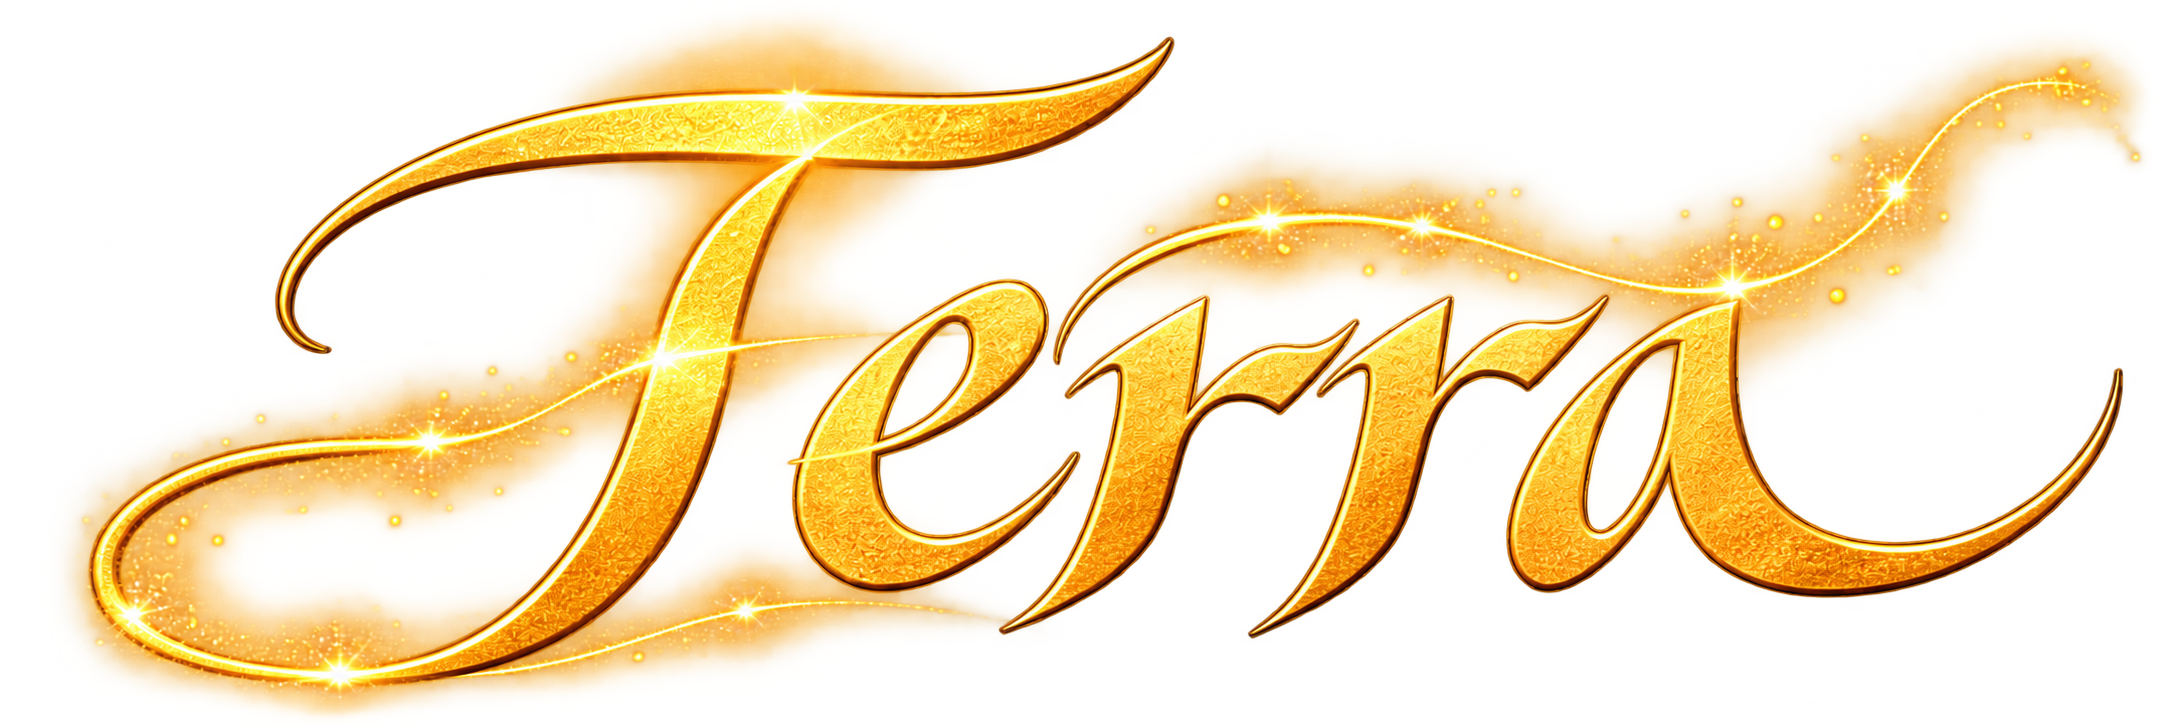
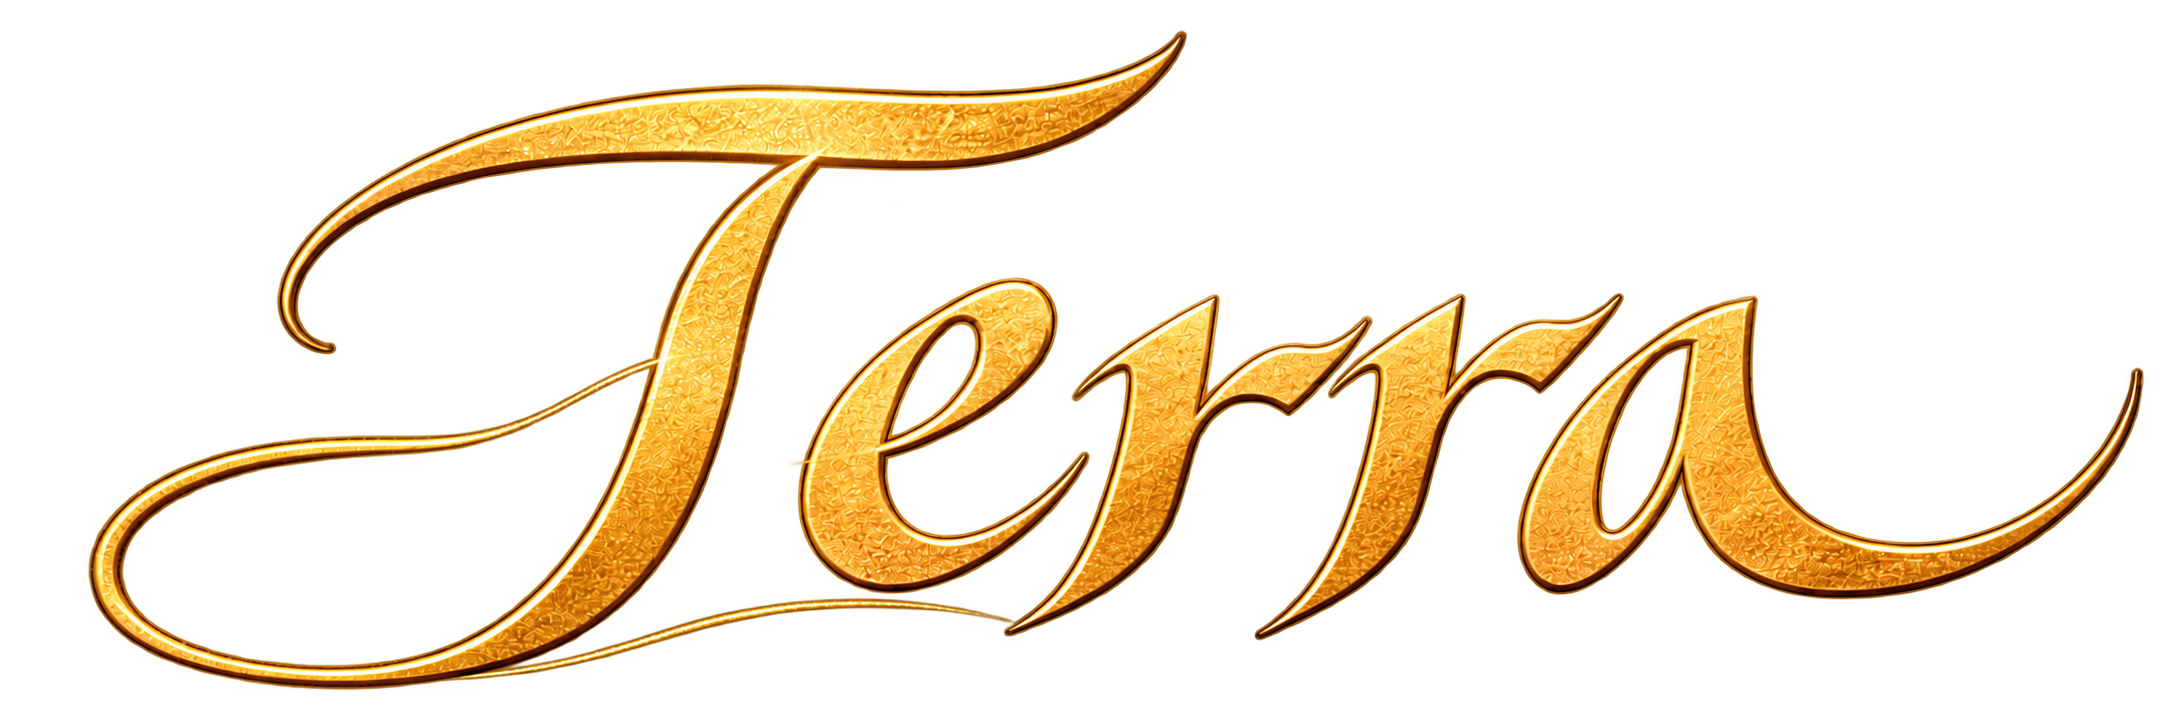
Soften mobile hero lettering and event details

diff --git a/index.html b/index.html
@@ -8,7 +8,7 @@
   <title>Quando o Céu Tocou a Terra | Cantata de Natal 2026</title>
   <link rel="preconnect" href="https://fonts.googleapis.com">
   <link rel="preconnect" href="https://fonts.gstatic.com" crossorigin>
-  <link href="https://fonts.googleapis.com/css2?family=Cinzel:wght@400;500;600&family=DM+Sans:wght@400;500;600;700&family=DM+Serif+Display&family=Tangerine:wght@700&display=swap" rel="stylesheet">
+  <link href="https://fonts.googleapis.com/css2?family=Cinzel:wght@400;500;600&family=Cormorant+Garamond:wght@500;600&family=DM+Sans:wght@400;500;600;700&family=DM+Serif+Display&family=Tangerine:wght@700&display=swap" rel="stylesheet">
   <script>document.documentElement.classList.add('js')</script>
   <style>
     :root { color-scheme: dark; --night: #100d0a; --panel: #19130e; --gold: #dfbb77; --ivory: #f4ead5; --muted: #c3b9a8; --line: rgba(223,187,119,.24); --serif: "Cinzel", Georgia, serif; --sans: "DM Sans", Arial, sans-serif; }
@@ -344,11 +344,13 @@
       .hero-art::before { content:""; position:absolute; z-index:-1; inset:-18px; background:url("images/cantata-mobile-hero.png") center 56% / cover no-repeat; filter:blur(16px) brightness(.48); transform:scale(1.05); opacity:.82; }
       .hero-art > .eyebrow { display:none; }
       .hero-mobile-kicker { display:block; position:absolute; z-index:2; top:26%; left:10px; right:10px; color:#f4cf7e; text-align:center; font-size:clamp(.58rem,2.8vw,.72rem); font-weight:700; letter-spacing:.17em; line-height:1.4; text-shadow:0 2px 14px #100900; text-transform:uppercase; }
-      .hero-art > h1 { position:absolute; top:32%; left:0; width:100%; margin:0; padding:0 10px; color:var(--ivory); font-size:clamp(1.58rem,7.3vw,2.65rem); line-height:1.02; letter-spacing:.035em; text-shadow:0 3px 22px #100900,0 0 24px rgba(0,0,0,.7); }
+      .hero-art > h1 { position:absolute; top:32%; left:0; width:100%; margin:0; padding:0 10px; color:var(--ivory); font-family:"Cormorant Garamond",var(--serif); font-size:clamp(1.8rem,8.1vw,2.75rem); font-weight:500; line-height:.98; letter-spacing:.045em; text-shadow:0 3px 22px #100900,0 0 24px rgba(0,0,0,.7); }
       .hero-art > h1 .terra { margin-top:1px; font-size:clamp(4.4rem,15.5vw,6.5rem); }
-      .hero-promise-below { order:2; display:block; width:100%; padding:24px 24px 8px; color:#f0d493; background:#100d0a; text-align:center; font-size:.76rem; font-weight:700; letter-spacing:.14em; line-height:1.65; text-shadow:0 2px 16px #000; text-transform:uppercase; }
-      .hero-promise-below::after { content:"✦"; display:block; width:136px; margin:13px auto 0; border-bottom:1px solid rgba(223,187,119,.58); color:#e8c476; font-size:.85rem; line-height:1.4; }
-      .hero-meta { order:3; width:100%; margin:0; padding:14px 22px 30px; background:#100d0a; gap:10px 18px; justify-content:center; }
+      .hero-promise-below { order:2; display:block; width:100%; padding:26px 22px 6px; color:#e7c577; background:#100d0a; text-align:center; font-family:"Cormorant Garamond",var(--serif); font-size:clamp(1rem,4.3vw,1.15rem); font-weight:500; letter-spacing:.12em; line-height:1.45; text-shadow:0 2px 16px #000; text-transform:uppercase; }
+      .hero-promise-below::after { content:"✦"; display:block; width:min(80%,310px); height:17px; margin:15px auto 0; color:#e8c476; font-size:.9rem; line-height:17px; background:linear-gradient(180deg,transparent 47%,rgba(223,187,119,.52) 47%,rgba(223,187,119,.52) 53%,transparent 53%); text-shadow:0 0 5px #100d0a,0 0 3px #100d0a; }
+      .hero-meta { order:3; width:100%; margin:0; padding:11px 22px 28px; background:#100d0a; gap:4px; justify-content:center; flex-direction:column; align-items:center; color:#d9b66d; font-family:"Cormorant Garamond",var(--serif); font-size:clamp(.88rem,3.8vw,1rem); line-height:1.42; letter-spacing:.15em; }
+      .hero-meta span { display:block; }
+      .hero-meta svg { display:none; }
     }
   
     .hero-renascer-logo {display:flex;flex-direction:column;align-items:center;gap:2px;margin:0 auto 23px;}
@@ -479,8 +481,8 @@
     .terra-title text { text-transform:none; }
     .terra-writing { fill-opacity:1; clip-path:none; stroke:rgba(243,213,142,.2); stroke-width:.45; }
     .terra-title-mobile { display:none; position:relative; isolation:isolate; }
-    .terra-title-mobile .terra-writing { display:block; width:100%; height:auto; filter:sepia(.72) saturate(1.2) hue-rotate(-8deg); }
-    .terra-sweep-mobile { position:absolute; inset:0; z-index:1; background:linear-gradient(105deg,transparent 35%,rgba(255,255,225,.12) 43%,rgba(255,255,231,.94) 50%,rgba(255,224,153,.2) 57%,transparent 65%); opacity:0; transform:translateX(-110%); pointer-events:none; -webkit-mask:url("images/terra-lettering.png") center / 100% 100% no-repeat; mask:url("images/terra-lettering.png") center / 100% 100% no-repeat; }
+    .terra-title-mobile .terra-writing { display:block; width:100%; height:auto; opacity:.88; filter:sepia(.58) saturate(.86) hue-rotate(-6deg) brightness(.84); }
+    .terra-sweep-mobile { position:absolute; inset:0; z-index:1; background:linear-gradient(105deg,transparent 38%,rgba(255,244,213,.08) 45%,rgba(255,244,213,.42) 50%,rgba(255,224,153,.09) 55%,transparent 62%); opacity:0; transform:translateX(-110%); pointer-events:none; -webkit-mask:url("images/terra-lettering.png") center / 100% 100% no-repeat; mask:url("images/terra-lettering.png") center / 100% 100% no-repeat; }
     .terra-sweep { opacity:0; transform:translateX(0); }
     .hero-star-light { position:absolute; z-index:1; top:7.8%; left:50%; width:clamp(34px,5vw,62px); aspect-ratio:1; border-radius:50%; pointer-events:none; opacity:.86; transform:translate(-50%,-50%); background:radial-gradient(circle,#fffdf3 0 4%,#fff0c0 7%,rgba(255,207,115,.64) 18%,rgba(238,163,45,.18) 45%,transparent 72%); filter:drop-shadow(0 0 12px rgba(255,193,76,.75)); mix-blend-mode:screen; }
     .hero-star-light::before { content:""; position:absolute; z-index:-1; top:48%; left:50%; width:clamp(220px,42vw,560px); height:clamp(280px,54vh,620px); transform:translateX(-50%) scaleY(.16); transform-origin:top center; clip-path:polygon(48% 0,52% 0,100% 100%,0 100%); background:linear-gradient(180deg,rgba(255,212,131,.28),rgba(244,184,79,.075) 48%,transparent 100%); filter:blur(11px); opacity:0; }
@@ -497,7 +499,7 @@
     .hero.cinematic-play .terra-title { opacity:0; animation:terra-stage .01s linear 8.35s both; }
     .hero.cinematic-play .terra-writing { clip-path:inset(0 100% 0 0); animation:calligraphy-write 2.85s cubic-bezier(.4,0,.2,1) 8.35s both; }
     .hero.cinematic-play .terra-sweep { animation:golden-sweep 1.25s cubic-bezier(.35,.05,.2,1) 12.1s both; }
-    .hero.cinematic-play .terra-sweep-mobile { animation:golden-sweep-mobile .72s cubic-bezier(.35,.05,.2,1) 2.66s both; }
+    .hero.cinematic-play .terra-sweep-mobile { animation:golden-sweep-mobile 1.25s cubic-bezier(.22,.61,.36,1) 2.72s both; }
     .hero.cinematic-play h1 { animation:title-final-glow .9s ease-out 14.05s both; }
     .hero.cinematic-play .hero-promise-below { animation:promise-intro .52s cubic-bezier(.2,.72,.2,1) 1.05s both; }
     @keyframes star-pulse { 0% {opacity:.28;transform:translate(-50%,-50%) scale(.72);filter:brightness(.72) drop-shadow(0 0 5px rgba(255,193,76,.38));} 42% {opacity:1;transform:translate(-50%,-50%) scale(1.18);filter:brightness(1.5) drop-shadow(0 0 25px rgba(255,193,76,.95));} 72% {opacity:.72;transform:translate(-50%,-50%) scale(.92);filter:brightness(1.02) drop-shadow(0 0 11px rgba(255,193,76,.68));} 100% {opacity:.9;transform:translate(-50%,-50%) scale(1);filter:brightness(1.12) drop-shadow(0 0 15px rgba(255,193,76,.78));} }
@@ -507,10 +509,18 @@
     @keyframes divine-reveal { 0% {clip-path:inset(0 50%);opacity:0;filter:brightness(1.8) blur(5px);transform:translateY(7px);letter-spacing:.22em;} 62% {opacity:1;filter:brightness(1.22) blur(1px);} 100% {clip-path:inset(0);opacity:1;filter:brightness(1) blur(0);transform:translateY(0);letter-spacing:.07em;} }
     @keyframes title-drop-reveal { 0% {clip-path:inset(0 0 100% 0);opacity:0;transform:translateY(16px) rotateX(-7deg);filter:blur(3px);} 68% {opacity:1;filter:blur(0);} 100% {clip-path:inset(0);opacity:1;transform:translateY(0) rotateX(0);filter:blur(0);} }
     @keyframes letter-arrive { 0% {opacity:0;transform:translate3d(0,.22em,0) rotateX(-38deg) scale(.96);filter:blur(3px);} 72% {opacity:1;filter:blur(0);} 100% {opacity:1;transform:translate3d(0,0,0) rotateX(0) scale(1);filter:blur(0);} }
+    @keyframes star-pulse-soft { 0% {opacity:.6;transform:translate(-50%,-50%) scale(.9);filter:drop-shadow(0 0 7px rgba(255,193,76,.42));} 55% {opacity:.84;transform:translate(-50%,-50%) scale(1.07);filter:drop-shadow(0 0 15px rgba(255,193,76,.68));} 100% {opacity:.72;transform:translate(-50%,-50%) scale(1);filter:drop-shadow(0 0 9px rgba(255,193,76,.5));} }
+    @keyframes star-radiance-soft { 0% {opacity:0;transform:scale(.78)} 45% {opacity:.42;transform:scale(1.02)} 100% {opacity:.24;transform:scale(1.1)} }
+    @keyframes promise-intro-soft { from {opacity:0;transform:translateY(6px);filter:blur(2px)} to {opacity:1;transform:translateY(0);filter:blur(0)} }
+    @keyframes divine-reveal-soft { from {clip-path:inset(0 50% 0 50%);opacity:0;filter:blur(2px);transform:translateY(4px)} to {clip-path:inset(0);opacity:1;filter:blur(0);transform:translateY(0)} }
+    @keyframes title-drop-soft { from {clip-path:inset(0 0 100%);opacity:0;filter:blur(2px);transform:translateY(8px)} to {clip-path:inset(0);opacity:1;filter:blur(0);transform:translateY(0)} }
+    @keyframes letter-arrive-soft { from {opacity:0;transform:translate3d(0,.12em,0) rotateX(-18deg) scale(.99);filter:blur(1.4px)} to {opacity:1;transform:translate3d(0,0,0) rotateX(0) scale(1);filter:blur(0)} }
+    @keyframes calligraphy-write-soft { 0% {clip-path:inset(0 100% 0 0);filter:brightness(1.06) saturate(.9)} 100% {clip-path:inset(0);filter:brightness(1) saturate(1)} }
+    @keyframes title-final-glow-soft { from {filter:drop-shadow(0 0 0 rgba(242,200,120,0))} to {filter:drop-shadow(0 0 3px rgba(242,200,120,.08))} }
     @keyframes terra-stage { to {opacity:1;} }
     @keyframes calligraphy-write { 0% {clip-path:inset(0 100% 0 0);filter:brightness(1.5) saturate(.72);} 72% {filter:brightness(1.12) saturate(.9);} 100% {clip-path:inset(0);filter:brightness(1) saturate(1);} }
     @keyframes golden-sweep { 0% {opacity:0;transform:translateX(-35px);} 18% {opacity:1;} 100% {opacity:0;transform:translateX(880px);} }
-    @keyframes golden-sweep-mobile { 0% {opacity:0;transform:translateX(-110%);} 18% {opacity:1;} 100% {opacity:0;transform:translateX(110%);} }
+    @keyframes golden-sweep-mobile { 0% {opacity:0;transform:translateX(-110%);} 28% {opacity:.62;} 100% {opacity:0;transform:translateX(110%);} }
     @keyframes title-final-glow { 0% {filter:drop-shadow(0 0 0 rgba(242,200,120,0));} 45% {filter:drop-shadow(0 0 14px rgba(242,200,120,.3));} 100% {filter:drop-shadow(0 0 5px rgba(242,200,120,.12));} }
     @media(min-width:1025px) { .hero-art > .eyebrow { position:relative; z-index:2; } .hero h1 { position:relative; z-index:2; } }
     @media(max-width:1024px) {
@@ -519,18 +529,19 @@
       .terra-title { width:clamp(250px,68vw,390px); margin-top:4px; }
       .terra-title-svg { display:none!important; }
       .terra-title-mobile { display:block; }
-      .hero.cinematic-play .hero-star-light { animation-duration:1.2s; }
-      .hero.cinematic-play .hero-star-light::before { animation-duration:1.25s; animation-delay:.08s; }
-      .hero.cinematic-play .hero-star-light::after { animation-duration:1.15s; animation-delay:.05s; }
-      .hero.cinematic-play .hero-title-sky { animation-duration:.82s; animation-delay:.48s; }
-      .hero.cinematic-play .hero-title-earth { animation-duration:.72s; animation-delay:1.02s; }
-      .hero.cinematic-play .hero-title-sky .hero-letter { animation-duration:.52s; }
-      .hero.cinematic-play .hero-title-earth .hero-letter { animation-duration:.46s; }
-      .hero.cinematic-play .terra-title-mobile { animation-delay:1.84s; }
-      .hero.cinematic-play .terra-title-mobile .terra-writing { clip-path:inset(0 100% 0 0); animation:calligraphy-write .82s cubic-bezier(.4,0,.2,1) 1.84s both; }
-      .hero.cinematic-play .terra-sweep-mobile { animation-delay:2.66s; }
-      .hero.cinematic-play h1 { animation-duration:.55s; animation-delay:3.38s; }
-      .hero.cinematic-play .hero-promise-below { animation-delay:1.05s; }
+      .hero.cinematic-play .hero-star-light { animation:star-pulse-soft 1.6s cubic-bezier(.22,.61,.36,1) 0s both; }
+      .hero.cinematic-play .hero-star-light::before { animation:star-beam 1.8s cubic-bezier(.22,.61,.36,1) .12s both; }
+      .hero.cinematic-play .hero-star-light::after { animation:star-radiance-soft 1.5s ease-out .1s both; }
+      .hero.cinematic-play .hero-mobile-kicker { animation:promise-intro-soft .65s cubic-bezier(.22,.61,.36,1) .1s both; }
+      .hero.cinematic-play .hero-title-sky { animation:divine-reveal-soft .98s cubic-bezier(.22,.61,.36,1) .46s both; }
+      .hero.cinematic-play .hero-title-earth { animation:title-drop-soft .92s cubic-bezier(.22,.61,.36,1) 1.06s both; }
+      .hero.cinematic-play .hero-title-sky .hero-letter { animation:letter-arrive-soft .74s cubic-bezier(.22,.61,.36,1) both; }
+      .hero.cinematic-play .hero-title-earth .hero-letter { animation:letter-arrive-soft .72s cubic-bezier(.22,.61,.36,1) both; }
+      .hero.cinematic-play .terra-title-mobile { animation-delay:1.87s; }
+      .hero.cinematic-play .terra-title-mobile .terra-writing { clip-path:inset(0 100% 0 0); animation:calligraphy-write-soft 1.04s cubic-bezier(.22,.61,.36,1) 1.87s both; }
+      .hero.cinematic-play .terra-sweep-mobile { animation-duration:1.25s; animation-delay:2.72s; }
+      .hero.cinematic-play h1 { animation:title-final-glow-soft .7s ease-out 3.85s both; }
+      .hero.cinematic-play .hero-promise-below { animation:promise-intro-soft .8s cubic-bezier(.22,.61,.36,1) 1.05s both; }
     }
     @media(prefers-reduced-motion:reduce) {
       .hero-art > .eyebrow,.hero-mobile-kicker,.hero-promise-below { clip-path:none!important; opacity:1!important; transform:none!important; filter:none!important; animation:none!important; }
